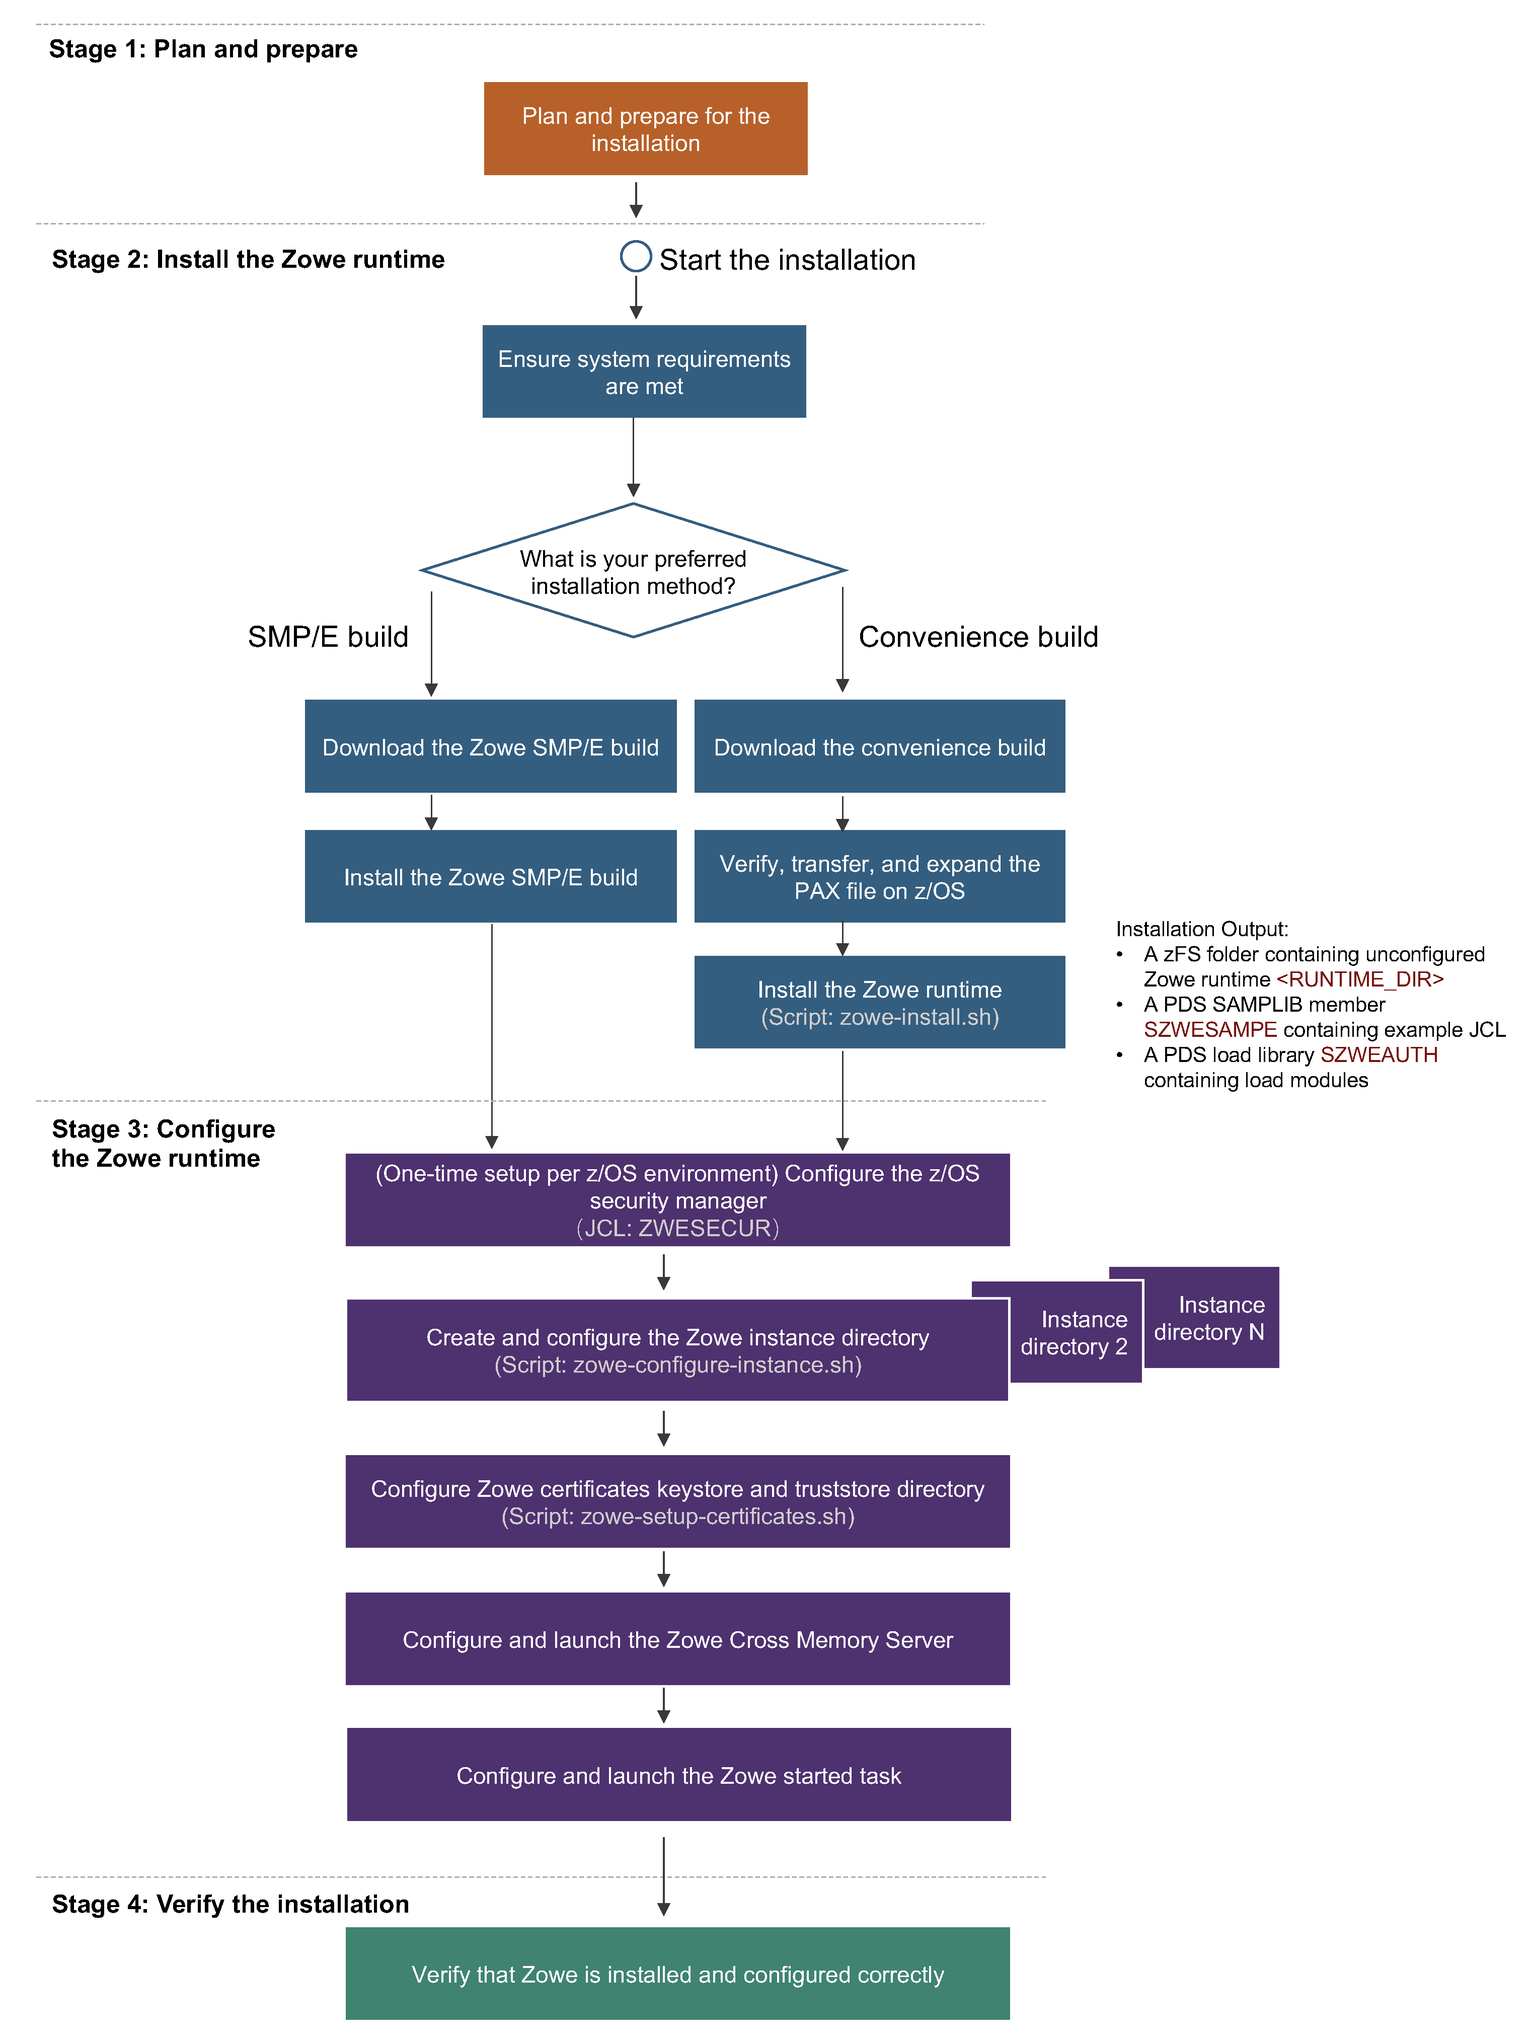
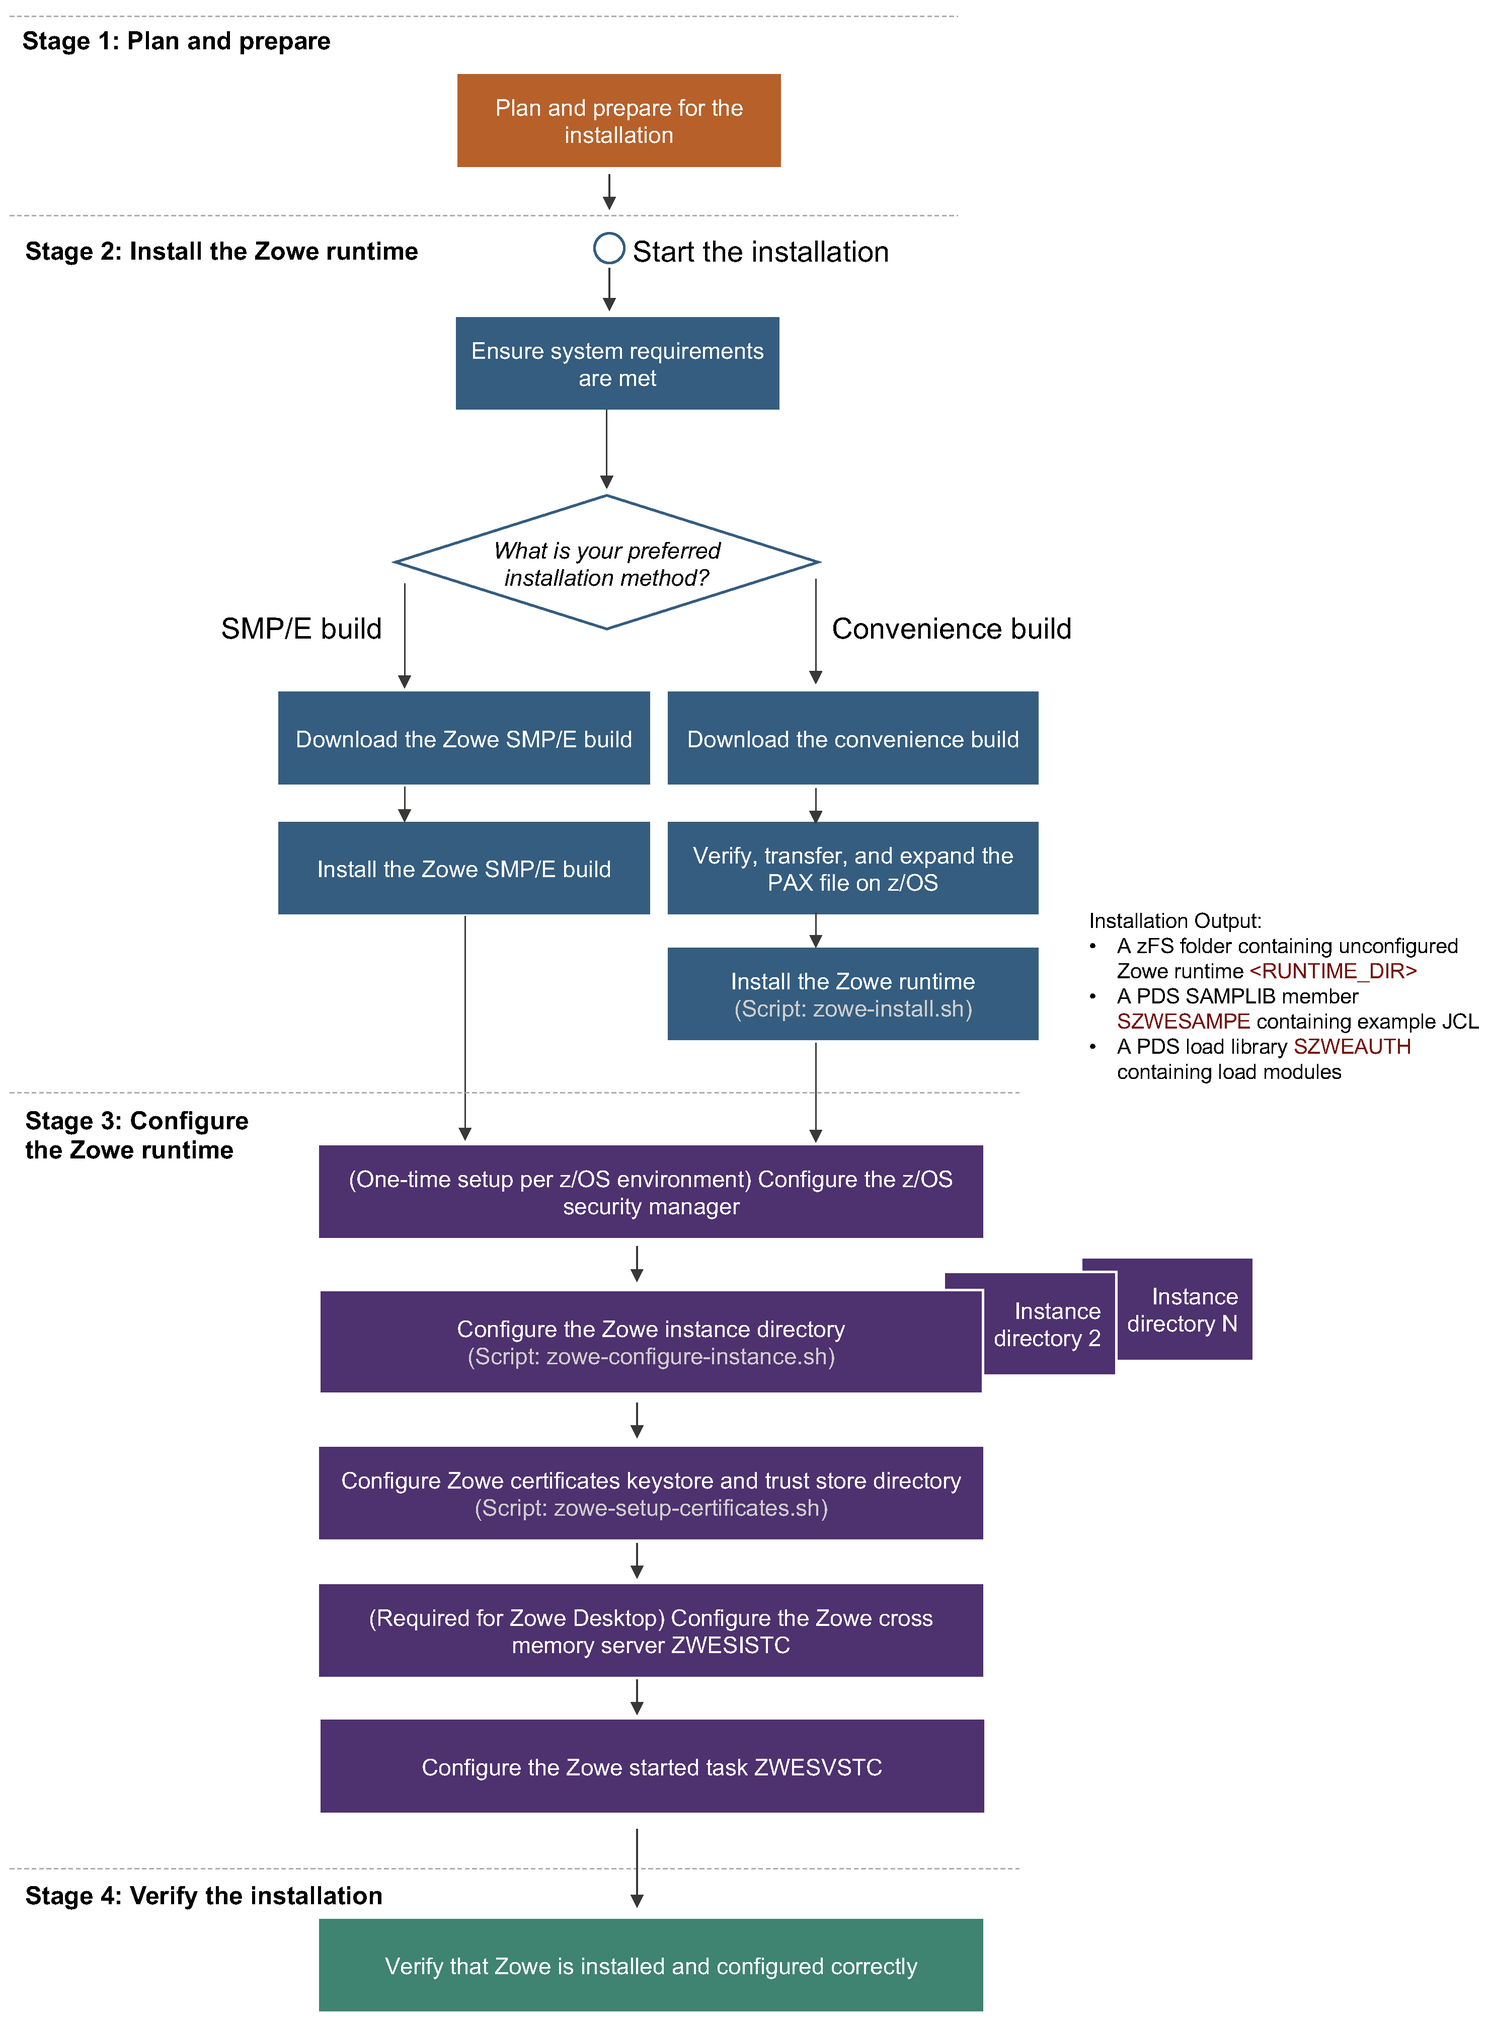
More edits and fixes

diff --git a/docs/user-guide/configure-cross-memory-server.md b/docs/user-guide/configure-cross-memory-server.md
@@ -1,6 +1,6 @@
 # Configuring the Zowe cross memory server
 
-The Zowe cross memory server is used by the Zowe desktop to run APF authorized code.  You must install, configure and launch the cross memory server if you want to use the Zowe desktop. Otherwise, you can skip this step.
+The Zowe cross memory server provides privileged cross-memory services to the Zowe Desktop and runs as an APF authorized program. The same cross memory server can be used by multiple Zowe desktops. You must install, configure and launch the cross memory server if you want to use the Zowe desktop. Otherwise, you can skip this step.
 
 To install and configure the cross memory server, you must create or edit APF authorized load libraries, program properties table (PPT) entries, and a parmlib. This requires familiarty with z/OS.  
 
@@ -10,9 +10,9 @@ The angel process server runs under the started task `ZWESISTC`.
 
 The `ZWESISTC` started task runs the load module `ZWESIS01`, serves the Zowe desktop that is running under the `ZWESVSTC` started task, and provides it with secure services that require elevated privileges, such as supervisor state, system key, or APF-authorization. 
 
-Under some situations, the cross memory server will start, control, and stop an auxiliary address space. This runs as a `ZWESASTC` started task that runs the load module `ZWESAUX`. Under normal Zowe operation, you will not see any auxiliary address spaces started. However, vendor products that runs on top of Zowe may exploit its service so it should be configured to be launchable.
+Under some situations, the cross memory server will start, control, and stop an auxiliary address space. This runs as a `ZWESASTC` started task that runs the load module `ZWESAUX`. Under normal Zowe operation, you will not see any auxiliary address spaces started. However, vendor products that runs on top of Zowe may exploit its service so it should be configured to be launchable. For more information, see [Zowe Auxiliary Address space](configure-auxiliary-address-space.md).
 
-To install the cross memory server, take the following steps either manually or use the supplied convenience script `zowe-install-xmem-server.sh`. <!--@joe, is the script name zowe-install-xmem.sh? instead of zowe-install-xmem-server.sh?-->  
+To install the cross memory server, take the following steps either manually or use the supplied convenience script `zowe-install-xmem.sh`.
 
 ## Step 1: Cross memory load library and PROCLIB
 
@@ -95,7 +95,7 @@ Then issue the following command to make the SCHEDxx changes effective:
 /SET SCH=xx
 ```
 
-## Step 3: Add the load libraries to the APF authorization list:
+## Step 3: Add the load libraries to the APF authorization list
 
 Because the cross memory server provides priviledges services, its load libraries require APF-authorization. To check whether a load library is APF-authorized, you can issue the following TSO command:
 
@@ -137,4 +137,22 @@ For commands required to configure ICSF cryptographic services environment for s
 When responding to API requests, the Zowe desktop node API server running under USS must be able to change the security environment of its process to associate itself with the security context of the logged in user. This is called impersonation.
 
 For commands required to configure impersonation, see [Configuring the z/OS system for Zowe](configure-zos-system.md#configure-security-environment-switching).
+
+## Starting and stopping the Zowe cross memory server on z/OS
+
+The cross memory server is run as a started task from the JCL in the PROCLIB member ZWESISTC. It supports reusable address spaces and can be started through SDSF with the operator start command with the `REUSASID=YES` keyword:
+```
+/S ZWESISTC,REUSASID=YES
+```
+The ZWESISTC task starts and stops the ZWESASTC task as needed. **Do not start the ZWESASTC task manually.**
+
+To end the Zowe APF Angel process, issue the operator stop command through SDSF:
+
+```
+/P ZWESISTC
+```
+
+**Note:** 
+
+The starting and stopping of the ZWESVSTC for the main Zowe servers is independent of the ZWESISTC angel process. If you are running more than one ZWESVSTC instance on the same LPAR, then these share the same ZWESISTC cross memory server. Stopping ZWESISTC affects the behavior of all Zowe servers on the same LPAR which use the same cross-memory server name, for example `ZWESIS_STD`. The Zowe cross memory server is designed to be a long-lived address space. There is no requirement to recycle on a regular basis. When the cross-memory server is started with a new version of the ZWESIS01 load module, it abandons its current load module instance in LPA and loads the updated version.
 

diff --git a/docs/user-guide/install-zos.md b/docs/user-guide/install-zos.md
@@ -43,25 +43,29 @@ After successful installation of either a convenience build or an SMP/E build, t
 
 1. Configure the z/OS security manager to prepare for launching the Zowe started tasks. For instructions, see [Configuring the z/OS system for Zowe](configure-zos-system.md).
    
-   A SAMPLIB JCL member `ZWESECUR` is provided to assist with the configuration. You can submit the `ZWESECUR` JCL member as-is or customize it depending on site preferences. 
+   A SAMPLIB JCL member `ZWESECUR` is provided to assist with the configuration. You can submit the `ZWESECUR` JCL member as-is or customize it depending on site preferences.  
    
    If Zowe has already been launched on the z/OS system from a previous release of Version 1.8 or later, then you are applying a newer Zowe build. You can skip this security configuration step unless told otherwise in the release documentation. 
 
-2. Create and customize an instance directory that contains configuration data about which components of Zowe should be executed. For instructions, see [Configuring the Zowe instance directory](configure-instance-directory.md).
+2. Create and customize an instance directory that contains configuration data required to launch a Zowe runtime and is where log files are stored. For instructions, see [Configuring the Zowe instance directory](configure-instance-directory.md).
 
    A single Zowe runtime can be launched multiple times from different instance directories, each specifying different port ranges, applications to include at start-up, paths of associated runtimes (Java, Node, z/OSMF).
 
 3. Configure the Zowe certificates keystore and trust store directory. For instructions, see [Configuring Zowe certificates](configure-certificates.md).  
 
-   The Zowe certificate directory can be shared between different Zowe instances, including between different Zowe releases, unless specified otherwise in the release documentation.
+   The Zowe keystore directory contains the key used by the Zowe desktop and the Zowe API mediation layer to secure its TLS communication with clients (such as web browsers or REST AI clients). The keystore directory also has a trust store where public keys of any servers that Zowe communicates to (such as z/OSMF) are held.
+
+   A keystore directory needs to be created for a Zowe instance to be launched successfully, and a keystore directory can be shared between Zowe instances and between Zowe runtimes, including between different Zowe releases, unless specified otherwise in the release documentation.
 
 Zowe has two high level started tasks: `ZWESVSTC` that launches the Zowe desktop and API mediation layer address spaces, and `ZWESISTC` that is a cross memory server that runs all of the APF authorized code.  The JCL for the tasks are included in the PDS SAMPLIB `SZWESAMP` installed by Zowe and the load modules for the cross memory server are included in the PDS load library `SZWEAUTH`.
 
-4. (Only required for the Zowe desktop) Configure the `ZWESISTC` cross memory server and install the load libraries. For instructions, see [Configuring the Cross memory server](configure-cross-memory-server.md).
+4. (Only required for the Zowe desktop) Configure the `ZWESISTC` cross memory server and install the load libraries. For instructions, see [Configuring the cross memory server](configure-cross-memory-server.md).
 
-   The cross memory server is only required if you want to use the Zowe desktop.  If you want to use Zowe API Mediation Layer only, you can skip this step.
+   The cross memory server is only required if you want to use the Zowe desktop. The cross memory server is not used by API Mediation Layer. If you want to use Zowe API Mediation Layer only, you can skip this step. 
+   
+   Which components of Zowe are started is determined by the `LAUNCH_COMPONENT_GROUPS` value in the `instance.env` file in the Zowe instance directory, see [Configuring the Zowe instance directory](configure-instance-directory.md#component-groups). 
 
-5. Configure the `ZWESVSTC` started task. For instructions, see [Configuring the Zowe started task](configure-zowe-server.md). 
+5. Configure the `ZWESVSTC` started task. For instructions, see [Configuring the ZWESVSTC started task](configure-zowe-server.md). 
 
 ## Stage 4: Verify the installation
 

diff --git a/docs/user-guide/configure-zowe-server.md b/docs/user-guide/configure-zowe-server.md
@@ -1,4 +1,4 @@
-# Configuring the Zowe started task
+# Configuring the ZWESVSTC started task
 
 Zowe has a number of runtimes on z/OS: the z/OS Service microservice server, the Zowe Application Server, and the Zowe API Mediation Layer microservices. A single PROCLIB `ZWESVSTC` is used to start all of these microservices.  This member is installed by Zowe into the data set SAMPLIB `SZWESAMP` during the installation or either a convenience build or SMP/E.  This topic describes how to configure the z/OS runtime in order to launch the Zowe started task.
 
@@ -26,15 +26,25 @@ The script `zowe-install-proc.sh` has two arguments:
    
    Executing the command `zowe-install-proc.sh MYUSERID.ZWE USER.PROCLIB` copies the PDS member `MYUSERID.ZWE.SZWESAMP(ZWESVSTC)` to `USER.PROCLIB(ZSWESAMP)`
 
-## Step 2: Launch the Zowe started task
+## Step 2: Launch the ZWESVSTC started task
 
 You can launch the Zowe started task in two ways.  
 
-### Starting Zowe from a USS shell
+### Option 1: Starting Zowe from a USS shell
 
-From a USS shell, issue the command `<zowe-instance-dir>/zowe-start.sh` to launch the started task `ZWESVSTC`.  This will read the configuration values from the `zowe-instance.env` file in the zowe instance directory.  
+To launch the `ZWESVSTC` started task, run the `zowe-start.sh` script from a USS shell.  This reads the configuration values from the `zowe-instance.env` file in the Zowe instance directory.
 
-### Starting Zowe with a `/S` TSO command
+```
+cd <ZOWE_INSTANCE_DIR>/bin
+./zowe-start.sh
+```
+where,
+
+_<ZOWE_INSTANCE_DIR>_ is the directory where you set the instance directory to. This script starts `ZWESVSTC` for you so you do not have to log on to TSO and use SDSF.
+
+### Option 2: Starting Zowe with a `/S` TSO command
+
+You can use SDSF to start Zowe. 
 
 If you issue the SDSF command `/S ZWESVSETC`, it will fail because the script needs to know the instance directory containing the configuration details.  
 
@@ -52,7 +62,7 @@ If the JCL value `instance-directory` is not specified in the JCL, in order to s
 /S ZWESVSTC,INSTANCE='$ZOWE_INSTANCE_DIR',JOBNAME='ZWEXSV'
 ```
 
-The `JOBNAME='ZWEXSV'` is optional and the started task will operate correctly without it, however having it specified ensures that the address spaces will be prefixed with `ZWEXSV` which makes them easier to find in SDSF or locate in RMF records.  
+The `JOBNAME='ZWEXSV'` is optional and the started task will operate correctly without it, however having it specified ensures that the address spaces will be prefixed with `ZWEXSV` which makes them easier to find in SDSF or locate in RMF records.
 
 ## Step 3: Configure ZWESVSTC to run under the correct user ID
 
@@ -109,3 +119,41 @@ TSO user IDs using Zowe must have permission to access the z/OSMF services that 
   TSS ADD(userid)  PROFILE(IZUADMIN)
   TSS ADD(userid)  GROUP(IZUADMGP)
   ```
+
+## Stopping the ZWESVSTC started task
+
+Stopping `ZWESVSTC` stops all of the components that run as independent Unix processes.
+
+To stop `ZWESVSTC`, run the `zowe-stop.sh` script at the Unix Systems Services command prompt:
+
+```
+cd $ZOWE_INSTANCE_DIR/bin
+./zowe-stop.sh
+```
+
+where _<ZOWE_INSTANCE_DIR>_ is the directory where you set the instance directory to.
+ 
+If you prefer to use SDSF to stop Zowe, stop ZWESVSTC by issuing the following operator command in SDSF:
+
+```
+/C ${ZOWE_PREFIX}${ZOWE_INSTANCE}SV
+```
+
+Where _ZOWE_PREFIX_ and _ZOWE_INSTANCE_ are specified in your configuration (and default to `ZWE` and 1).
+
+When you stop ZWESVSTC, you might get the following error message:
+
+```
+IEE842I ZWESVSTC DUPLICATE NAME FOUND- REENTER COMMAND WITH 'A='
+```
+
+This error results when there is more than one started task named ZWESVSTC. To resolve the issue, stop the required ZWESVSTC instance by issuing the following commands:
+
+```
+/C ${ZOWE_PREFIX}${ZOWE_INSTANCE}SV,A=asid
+```
+Where _ZOWE_PREFIX_ and _ZOWE_INSTANCE_ are specified in your configuration (and default to ZWE and 1) and you can obtain the _asid_ from the value of `A=asid` when you issue the following commands:
+
+```
+/D A,${ZOWE_PREFIX}${ZOWE_INSTANCE}SV
+```

diff --git a/docs/user-guide/configure-auxiliary-address-space.md b/docs/user-guide/configure-auxiliary-address-space.md
@@ -1,11 +1,10 @@
 # Zowe Auxiliary Address space
-<!--@joe, where should this topic be linked?-->
 
 The cross memory server runs as a started task `ZWESISTC` that uses the load module `ZWESIS01`.
 
 In some use cases, the Zowe cross memory server has to spawn child address spaces, known as auxiliary (AUX) address spaces.  The auxiliary addres spaces run as the started task `ZWESASTC` using the load module `ZWESAUX` and are started, controlled, and stopped by the cross memory server.  
 
-An examlpe of when an auxiliary address space is used is for a system service that requires supervisor state but cannot run in cross-memory mode. The service can be run in an AUX address space which is invoked by the Cross Memory Server acting as a proxy for unauthorized users of the service. 
+An example of when an auxiliary address space is used is for a system service that requires supervisor state but cannot run in cross-memory mode. The service can be run in an AUX address space which is invoked by the Cross Memory Server acting as a proxy for unauthorized users of the service. 
 
 Do not install the Zowe auxiliary address space unless a Zowe extension product's installation guide explicitly asks for it to be done.  This will occur if the extension product requires services of Zowe that cannot be performed by the cross memory server and an auxiliary address space needs to be started.  
 

diff --git a/docs/user-guide/configure-instance-directory.md b/docs/user-guide/configure-instance-directory.md
@@ -104,7 +104,7 @@ To determine which ports are not available, follow these steps:
 - `ZOWE_ZLUX_TELNET_PORT`: The Zowe desktop contains an application *TN 3270 Terminal* which opens a 3270 emulator inside the Zowe desktop web page.  This port is the number used by the z/OS telnet service and defaults to 23. The USS command `netstat -b | grep TN3270` can be used to display the telnet port used on a z/OS system.
 - `ZOWE_ZLUX_SECURITY_TYPE`: The *TN 3270 Terminal* application needs to know whether the telnet service is using `tls` or `telnet` for security.  The default value is blank for `telnet`.
 
-### Components
+### Component groups
 
 - `LAUNCH_COMPONENT_GROUPS` : This is a comma separated list of which z/OS microservice groups are started when Zowe launches. 
   - `GATEWAY` will start the API mediation layer which includes the API catalog, the API gateway and the API discovery service.  These three address spaces are Apache Tomcat servers and uses the version of Java on z/OS as determined by the `ZOWE_JAVA_HOME` value.  
